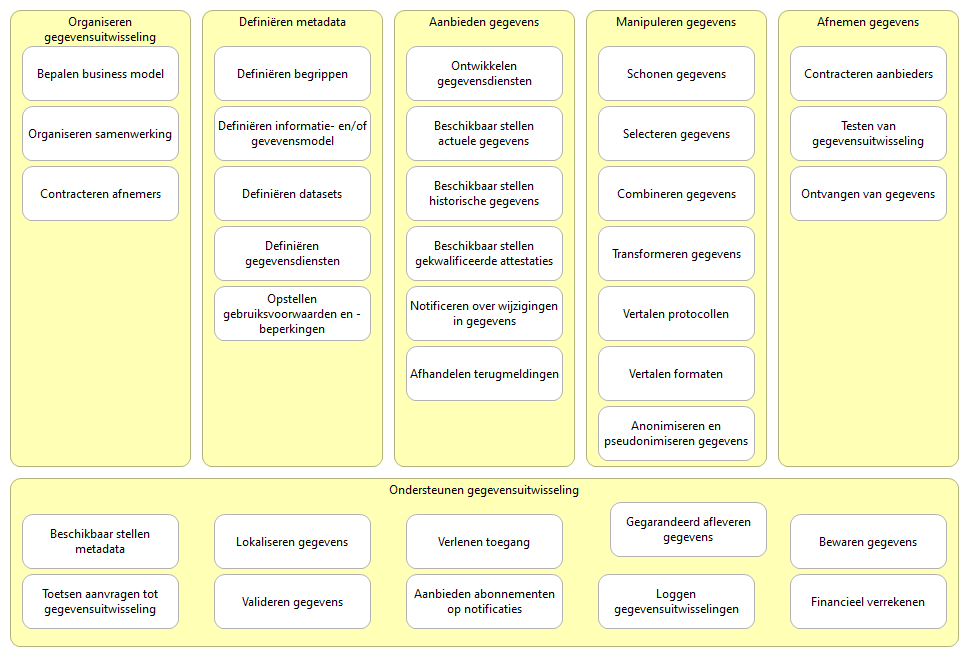
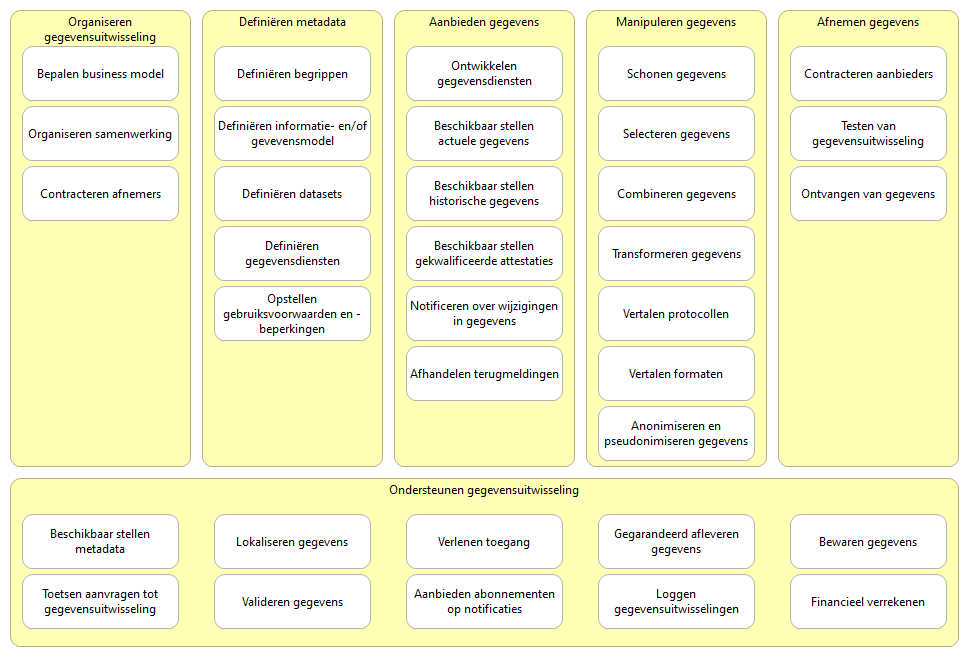
visuele fix

Changed region(s): [[0.6192, 0.761, 0.805, 0.8828]]

diff --git a/docs/id-06c6c1de430644b9adb865225da06cba/views/id-f7226f7c68704aae807b71a2f10b1cce.html b/docs/id-06c6c1de430644b9adb865225da06cba/views/id-f7226f7c68704aae807b71a2f10b1cce.html
@@ -56,7 +56,7 @@
 				  		<area shape="rect" coords="10,10,191,467" href="../elements/id-80e3338ec5a94dc4a0bab92c6d9b286a.html"  target="element">
 				  				<area shape="rect" coords="214,574,371,629" href="../elements/id-51addf9338fa40d4abb17533786677d0.html"  target="element">
 				  				<area shape="rect" coords="790,574,947,629" href="../elements/id-2a09dbc4bf6844f4adf8de42a628bd5a.html"  target="element">
-				  				<area shape="rect" coords="610,502,767,557" href="../elements/id-d2465138e3d44120a0132c92bc8ffdf3.html"  target="element">
+				  				<area shape="rect" coords="598,514,755,569" href="../elements/id-d2465138e3d44120a0132c92bc8ffdf3.html"  target="element">
 				  				<area shape="rect" coords="214,514,371,569" href="../elements/id-eb3c144faabf42ada75c8f4f809d800e.html"  target="element">
 				  				<area shape="rect" coords="790,514,947,569" href="../elements/id-abd2d57f007a422dbf84cab359ab5bc2.html"  target="element">
 				  				<area shape="rect" coords="406,574,563,629" href="../elements/id-0117f3617bc9465ca0df8a0441383b79.html"  target="element">
